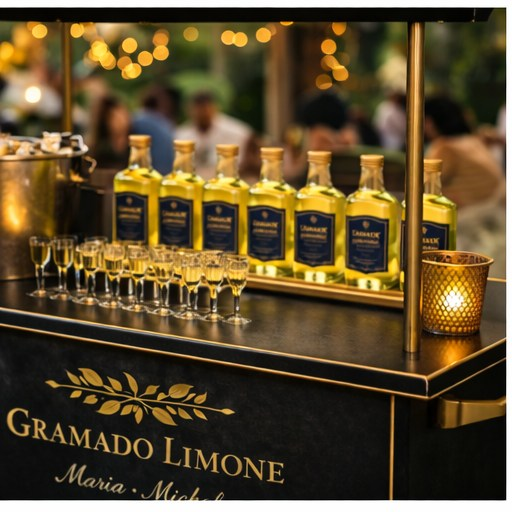
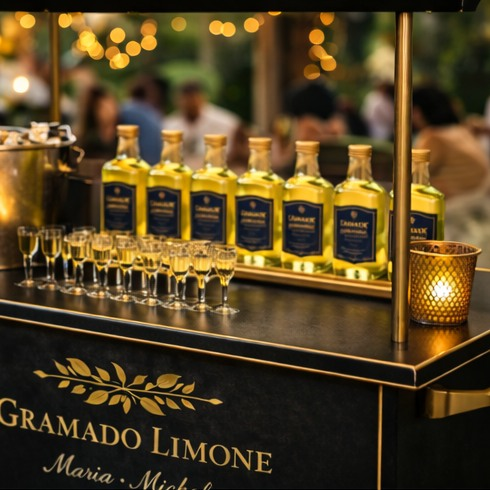
fix: remove white borders and prevent image cropping

diff --git a/components/WhereToFindSection.tsx b/components/WhereToFindSection.tsx
@@ -34,7 +34,7 @@ export default function WhereToFindSection() {
             width={512}
             height={512}
             sizes="(max-width: 768px) 92vw, (max-width: 1280px) 48vw, 720px"
-            className="h-[320px] w-full rounded-xl object-cover sm:h-[420px] md:h-[500px]"
+            className="h-[320px] w-full rounded-xl bg-[#0f1628] object-contain sm:h-[420px] md:h-[500px]"
           />
         </figure>
       </div>

diff --git a/components/EventsSection.tsx b/components/EventsSection.tsx
@@ -35,7 +35,7 @@ export default function EventsSection() {
             width={512}
             height={512}
             sizes="(max-width: 768px) 92vw, (max-width: 1280px) 48vw, 720px"
-            className="h-[340px] w-full rounded-xl object-cover sm:h-[420px] md:h-[520px]"
+            className="h-[340px] w-full rounded-xl bg-[#0f1628] object-contain sm:h-[420px] md:h-[520px]"
           />
         </figure>
       </div>

diff --git a/components/Hero.tsx b/components/Hero.tsx
@@ -48,7 +48,7 @@ export default function Hero() {
             height={512}
             priority
             sizes="(max-width: 768px) 92vw, (max-width: 1280px) 50vw, 860px"
-            className="h-[320px] w-full rounded-xl object-cover sm:h-[420px] md:h-[560px]"
+            className="h-[320px] w-full rounded-xl bg-[#0f1628] object-contain sm:h-[420px] md:h-[560px]"
           />
         </figure>
       </div>
